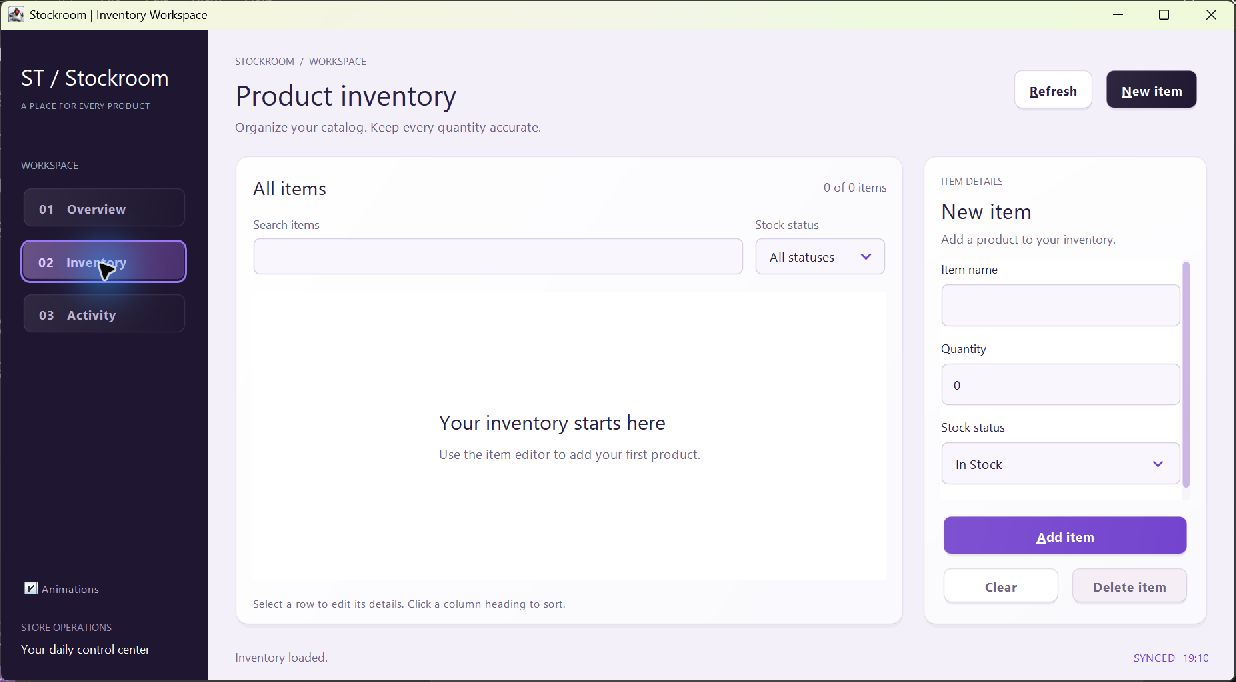
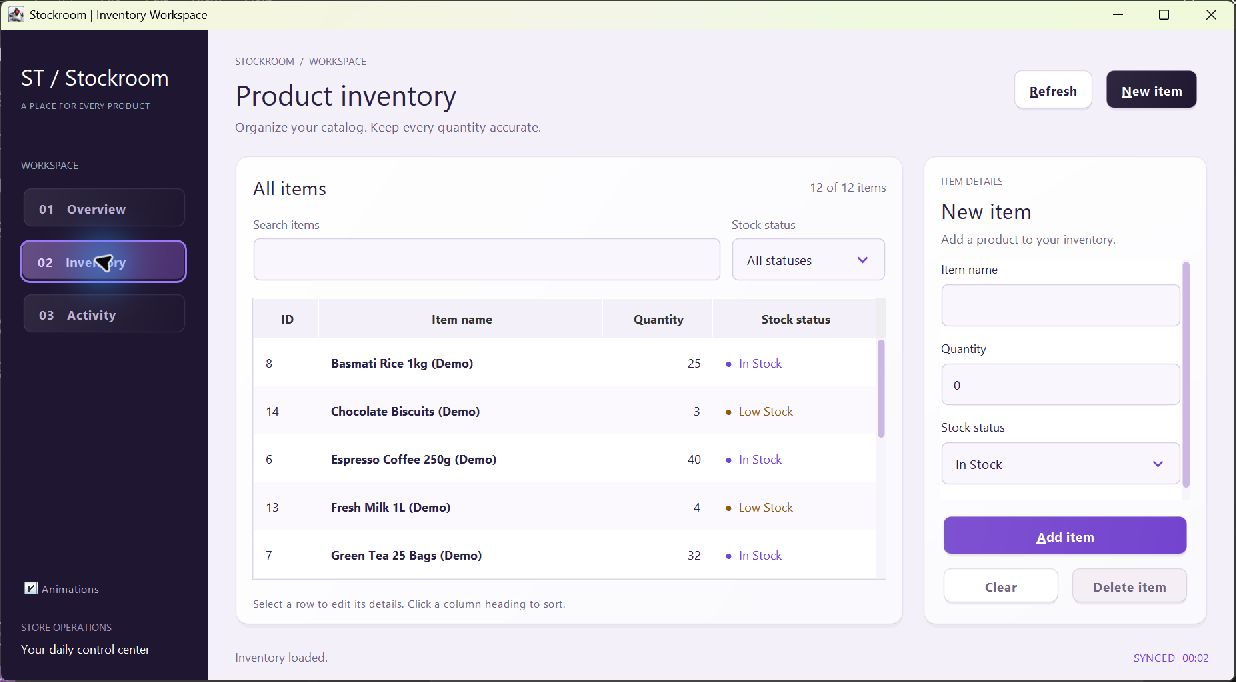
fix: improve inventory column sizing and wrap activity messages

diff --git a/src/inventory/InventoryApp.java b/src/inventory/InventoryApp.java
@@ -139,6 +139,13 @@ public final class InventoryApp {
         banner.add(copy,BorderLayout.CENTER); var art=new WorkspaceVisuals.Artwork("activity.png"); art.setPreferredSize(new Dimension(175,105)); banner.add(art,BorderLayout.EAST); page.add(banner,BorderLayout.NORTH);
         var panel=card(); panel.setLayout(new BorderLayout(0,12)); panel.add(text("Session timeline",18,INK),BorderLayout.NORTH);
         var events=new JTable(activityModel); events.setRowHeight(44); events.setShowGrid(false); events.setFillsViewportHeight(true); events.setBackground(Color.WHITE); events.setFont(new Font("Segoe UI",Font.PLAIN,13)); events.getColumnModel().getColumn(0).setMaxWidth(110);
+        events.getColumnModel().getColumn(0).setMinWidth(90);
+        events.setDefaultRenderer(Object.class,new WorkspaceVisuals.ActivityCell());
+        Runnable sizeEvents=()->WorkspaceVisuals.sizeActivityRows(events);
+        activityModel.addTableModelListener(event->SwingUtilities.invokeLater(sizeEvents));
+        events.addComponentListener(new java.awt.event.ComponentAdapter() {
+            @Override public void componentResized(java.awt.event.ComponentEvent event) { sizeEvents.run(); }
+        });
         events.getTableHeader().setFont(new Font("Segoe UI",Font.BOLD,12)); var scroll=new JScrollPane(events); scroll.setBorder(BorderFactory.createLineBorder(LINE)); panel.add(scroll); page.add(panel,BorderLayout.CENTER); return page;
     }
     private JPanel inventoryPanel() {
@@ -155,6 +162,12 @@ public final class InventoryApp {
         table.getTableHeader().setReorderingAllowed(false); table.getTableHeader().setPreferredSize(new Dimension(0, 40)); table.getTableHeader().setFont(new Font("Segoe UI", Font.BOLD, 12));
         table.setDefaultRenderer(Object.class, new ItemCell()); table.setDefaultRenderer(Long.class, new ItemCell()); table.setDefaultRenderer(Integer.class, new ItemCell());
         table.getColumnModel().getColumn(0).setMaxWidth(65); table.getColumnModel().getColumn(2).setPreferredWidth(80); table.getColumnModel().getColumn(3).setPreferredWidth(135);
+        table.getColumnModel().getColumn(0).setMinWidth(48);
+        table.getColumnModel().getColumn(1).setPreferredWidth(260);
+        table.getColumnModel().getColumn(1).setMinWidth(120);
+        table.getColumnModel().getColumn(2).setMinWidth(85);
+        table.getColumnModel().getColumn(3).setMinWidth(140);
+        search.setPreferredSize(new Dimension(180,44)); filter.setPreferredSize(new Dimension(155,44));
         var scroll = new JScrollPane(table); scroll.setBorder(BorderFactory.createLineBorder(LINE)); content.add(scroll, "table");
         var empty = new JPanel(new GridBagLayout()); empty.setBackground(Color.WHITE); var copy = vertical(); copy.add(emptyTitle); copy.add(Box.createVerticalStrut(10)); copy.add(emptyHint); empty.add(copy); content.add(empty, "empty");
         panel.add(content, BorderLayout.CENTER); panel.add(text("Select a row to edit its details. Click a column heading to sort.", 11, MUTED), BorderLayout.SOUTH); return panel;
@@ -211,6 +224,7 @@ public final class InventoryApp {
         private static final long serialVersionUID = 1L;
         @Override public Component getTableCellRendererComponent(JTable grid, Object value, boolean selected, boolean focus, int row, int column) {
             super.getTableCellRendererComponent(grid, value, selected, focus, row, column);
+            setToolTipText(String.valueOf(value));
             setBorder(new EmptyBorder(0, 12, 0, 12)); setFont(new Font("Segoe UI", column == 1 ? Font.BOLD : Font.PLAIN, 12));
             setBackground(selected ? grid.getSelectionBackground() : row % 2 == 0 ? Color.WHITE : new Color(251, 249, 254)); setForeground(INK);
             setHorizontalAlignment(column == 2 ? SwingConstants.RIGHT : SwingConstants.LEFT);

diff --git a/src/inventory/WorkspaceVisuals.java b/src/inventory/WorkspaceVisuals.java
@@ -14,6 +14,31 @@ import java.nio.file.Path;
 final class WorkspaceVisuals {
     private WorkspaceVisuals() { }
 
+    static final class ActivityCell extends JTextArea implements javax.swing.table.TableCellRenderer {
+        private static final long serialVersionUID = 1L;
+        ActivityCell() {
+            setLineWrap(true); setWrapStyleWord(true); setFont(new Font("Segoe UI",Font.PLAIN,13));
+            setBorder(BorderFactory.createEmptyBorder(12,12,12,12));
+        }
+        @Override public Component getTableCellRendererComponent(JTable table,Object value,boolean selected,boolean focus,int row,int column) {
+            setText(String.valueOf(value)); setToolTipText(getText());
+            setForeground(new Color(43,32,69)); setBackground(selected?new Color(237,228,252):row%2==0?Color.WHITE:new Color(251,249,254));
+            return this;
+        }
+    }
+
+    static void sizeActivityRows(JTable table) {
+        for(int row=0;row<table.getRowCount();row++) {
+            int height=44;
+            for(int column=0;column<table.getColumnCount();column++) {
+                Component cell=table.prepareRenderer(table.getCellRenderer(row,column),row,column);
+                cell.setSize(Math.max(1,table.getColumnModel().getColumn(column).getWidth()),Short.MAX_VALUE);
+                height=Math.max(height,cell.getPreferredSize().height);
+            }
+            if(table.getRowHeight(row)!=height) table.setRowHeight(row,height);
+        }
+    }
+
     static final class AttentionRow extends JPanel implements ListCellRenderer<Item> {
         private static final long serialVersionUID = 1L;
         private final JLabel name = new JLabel(), quantity = new JLabel(), badge = new JLabel();

diff --git a/tests/inventory/InventoryViewTest.java b/tests/inventory/InventoryViewTest.java
@@ -88,6 +88,13 @@ public final class InventoryViewTest {
             attention.setSize(350,56); attention.doLayout();
             var rowImage = new java.awt.image.BufferedImage(350,56,java.awt.image.BufferedImage.TYPE_INT_ARGB);
             var rowGraphics = rowImage.createGraphics(); attention.paint(rowGraphics); rowGraphics.dispose();
+            var history = new javax.swing.JTable(new Object[][]{{"12:00:00","A long operation result that must remain readable when the activity table is narrow. ".repeat(4)}},new Object[]{"Time","Event"});
+            history.setDefaultRenderer(Object.class,new WorkspaceVisuals.ActivityCell());
+            history.getColumnModel().getColumn(0).setWidth(90); history.getColumnModel().getColumn(1).setWidth(200);
+            WorkspaceVisuals.sizeActivityRows(history); int narrowHeight=history.getRowHeight(0);
+            assert narrowHeight>44 : "Long activity entries must wrap";
+            history.getColumnModel().getColumn(1).setWidth(700); WorkspaceVisuals.sizeActivityRows(history);
+            assert history.getRowHeight(0)<narrowHeight : "Rows must shrink after widening";
         });
         for (String asset : List.of("warehouse.png", "activity.png")) {
             var image = javax.imageio.ImageIO.read(java.nio.file.Path.of("assets", asset).toFile());

diff --git a/docs/verification.md b/docs/verification.md
@@ -61,3 +61,8 @@ Executed `scripts/SeedDemo.java` with assertions enabled against Supabase. First
 ## Stock-attention formatting
 
 Replaced slash-separated text with typed product rows: bold name, formatted remaining quantity, aligned Low Stock/Out of Stock badge, and subtle row separators. The card shows three complete 56 px rows, with vertical scrolling and a separate empty state. Full product details remain available in tooltips. Validation and view checks passed, including singular quantities, zero stock, long names, and renderer painting. Visually verified the populated panel and captured `docs/screenshots/attention.png`.
+
+
+## Application-wide formatting review - 18 November 2026
+
+Reviewed Overview, populated Inventory, and Activity on the available desktop. Inventory now reserves readable widths for identity, quantity and stock-status columns, gives product names more space, and exposes full cell values in tooltips. Search and status-filter controls share a 44 px height. Activity uses padded alternating rows and wraps messages; row heights recalculate as messages arrive or the table width changes. Automated checks verify that long messages wrap in narrow columns and row heights shrink again when widened. Java compilation and validation/view checks passed. Database operations were unchanged and not rerun. Other display scales and smaller-than-minimum windows remain unverified.
